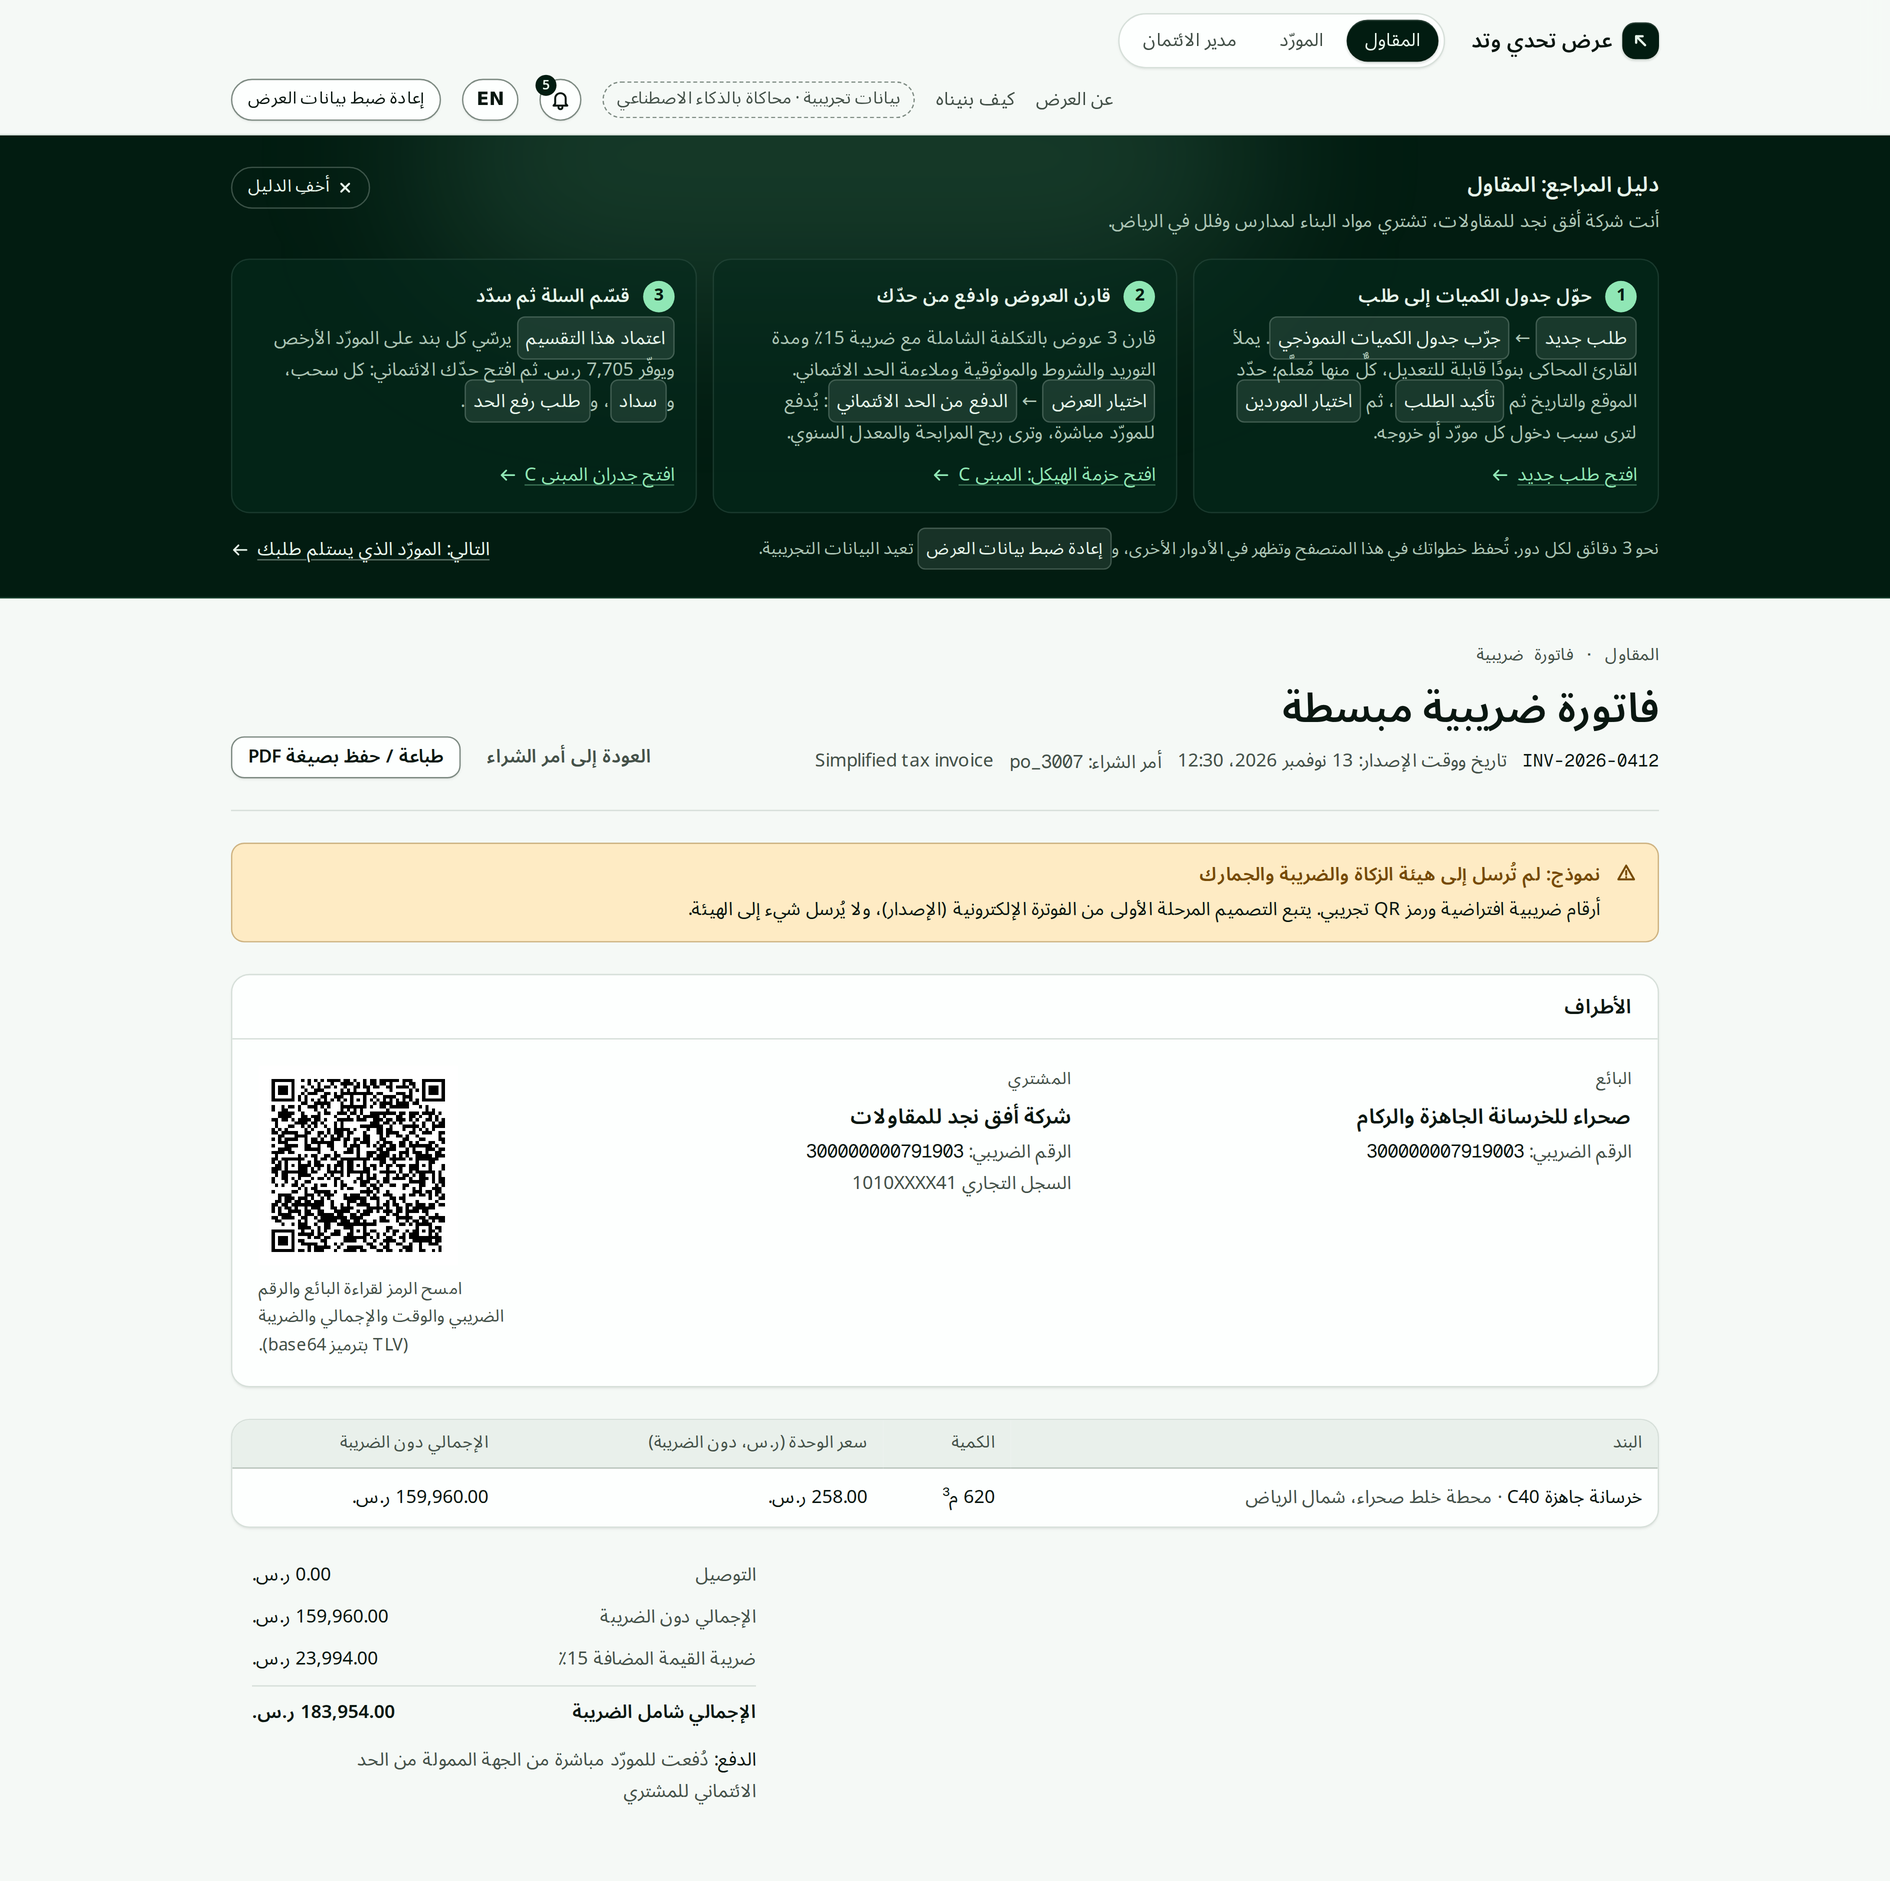
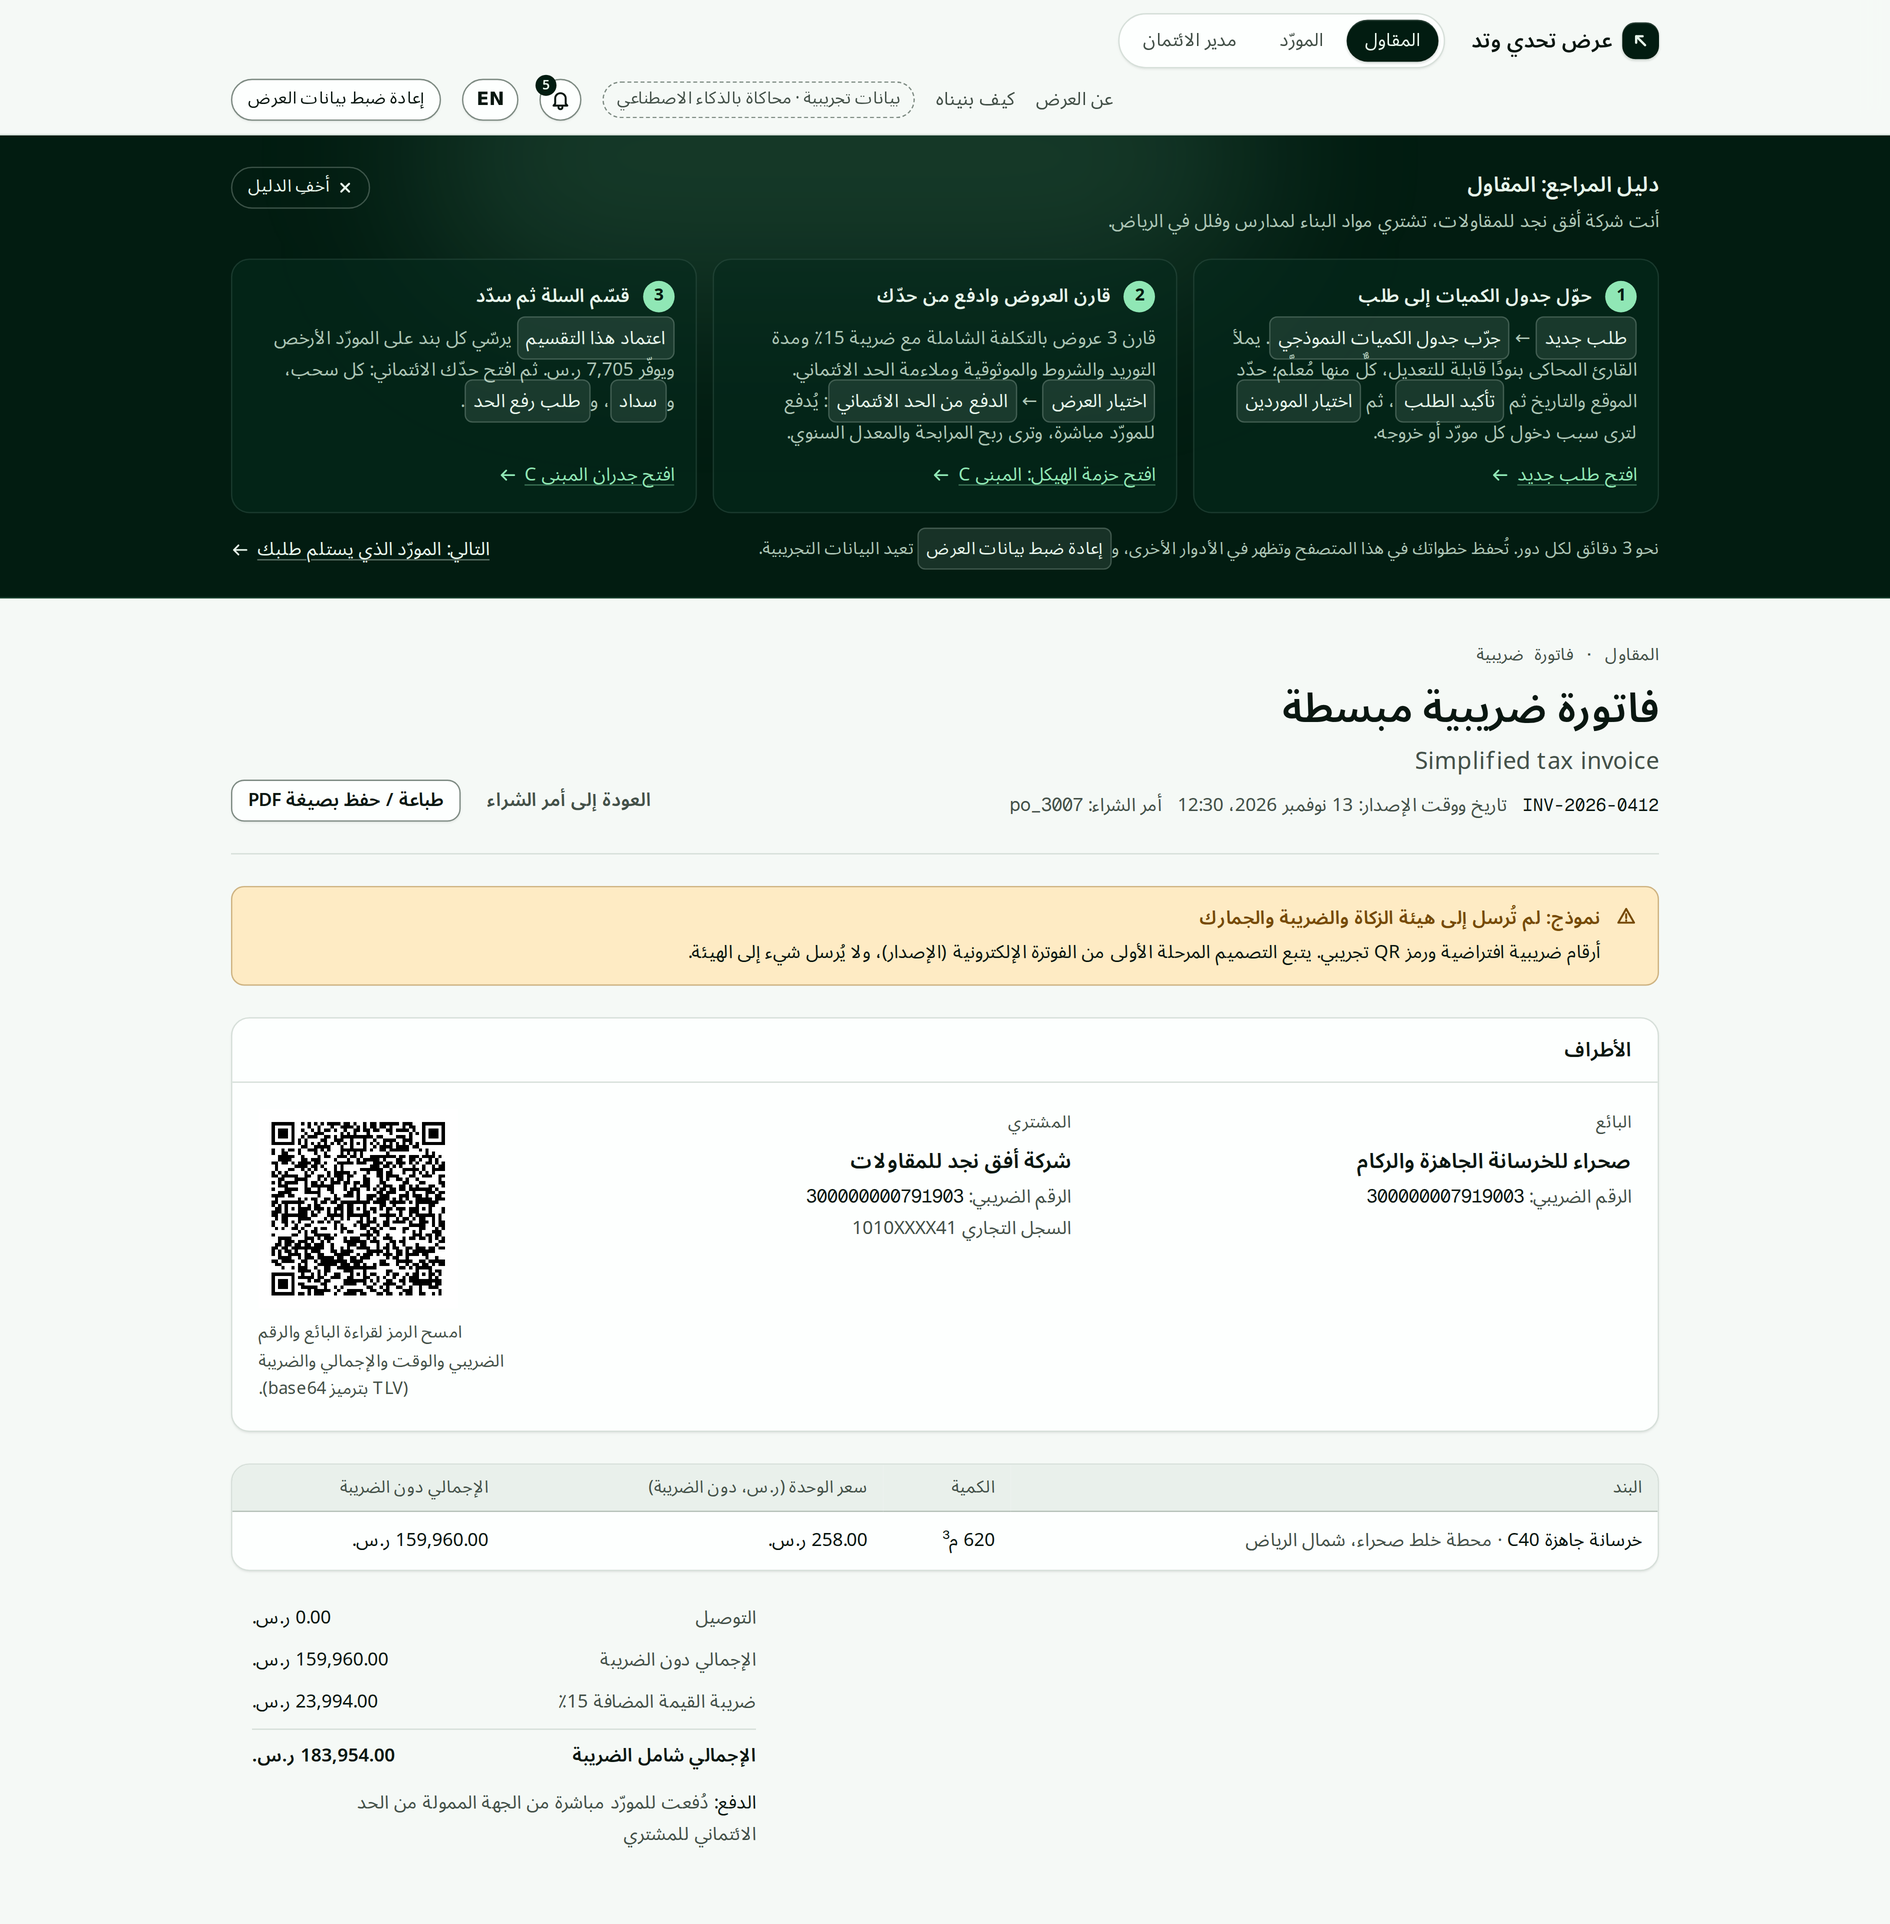
feat(invoice): bilingual title, the other language as a subtitle under the heading
Saudi tax invoices are bilingual («فاتورة ضريبية مبسطة» / "Simplified tax
invoice"). PageHeader gets an optional `subtitle` directly under the h1;
the tax invoice uses it for the other language's title (lang and dir
set), instead of the end of the meta row (Layla's nit on #146). e2e
checks the subtitle in both languages. Screenshots refreshed.

diff --git a/src/components/ui/panel.tsx b/src/components/ui/panel.tsx
@@ -20,7 +20,8 @@ export function Panel({ title, aside, children, className, flush = false }: { ti
  * Top of every working screen, laid out like the head of an attested document:
  * title, serial number, status, then the one primary action at the end.
  */
-export function PageHeader({ title, serial, status, meta, actions, eyebrow }: { title: string; serial?: string; status?: ReactNode; meta?: ReactNode; actions?: ReactNode; eyebrow?: string }) {
+/** `subtitle` sits directly under the title, e.g. the Arabic title of a bilingual document. */
+export function PageHeader({ title, subtitle, serial, status, meta, actions, eyebrow }: { title: string; subtitle?: ReactNode; serial?: string; status?: ReactNode; meta?: ReactNode; actions?: ReactNode; eyebrow?: string }) {
   return (
     <header className="flex flex-wrap items-end justify-between gap-x-6 gap-y-4 border-b border-line pb-6">
       <div className="min-w-0">
@@ -29,6 +30,7 @@ export function PageHeader({ title, serial, status, meta, actions, eyebrow }: { 
           <h1 className="text-3xl font-semibold tracking-[var(--tracking-heading)] text-ink">{title}</h1>
           {status}
         </div>
+        {subtitle ? <p className="mt-1 text-lg font-medium text-ink-muted">{subtitle}</p> : null}
         {serial || meta ? (
           <p className="mt-1.5 flex flex-wrap items-center gap-x-3 gap-y-1 text-sm text-ink-muted">
             {serial ? <span className="font-mono text-xs text-ink">{serial}</span> : null}

diff --git a/e2e/invoice.spec.ts b/e2e/invoice.spec.ts
@@ -24,6 +24,9 @@ test("an invoiced PO links to its tax invoice: sample label, QR with the ZATCA f
   const inv = tid(page, "tax-invoice");
   await expect(inv).toContainText("Simplified tax invoice");
   await expect(inv).toContainText("INV-2026-0412");
+  // Bilingual, as Saudi tax invoices are: the Arabic title sits right under the English heading.
+  await expect(tid(page, "invoice-title-alt")).toHaveText("فاتورة ضريبية مبسطة");
+  await expect(tid(page, "invoice-title-alt")).toHaveAttribute("lang", "ar");
   await expect(tid(page, "invoice-sample")).toContainText("Sample: not submitted to ZATCA");
 
   const qr = tid(page, "invoice-qr");
@@ -95,6 +98,7 @@ test("PO and tax invoice have no serious or critical accessibility issues, Engli
       if (path.endsWith("invoice")) {
         await expect(tid(page, "invoice-qr").locator("path")).toHaveCount(1);
         if (locale === "ar") await expect(tid(page, "tax-invoice")).toContainText("فاتورة ضريبية مبسطة");
+        if (locale === "ar") await expect(tid(page, "invoice-title-alt")).toHaveText("Simplified tax invoice");
       }
       const results = await new AxeBuilder({ page }).include("main").analyze();
       const serious = results.violations.filter((v) => v.impact === "serious" || v.impact === "critical");

diff --git a/src/components/invoice/tax-invoice.tsx b/src/components/invoice/tax-invoice.tsx
@@ -102,6 +102,12 @@ export function TaxInvoice({ poId, viewer }: { poId: string; viewer: "contractor
       <PageHeader
         eyebrow={eyebrow}
         title={m.title}
+        // Saudi tax invoices are bilingual: the other language's title sits under the heading.
+        subtitle={
+          <span lang={i.ar ? "en" : "ar"} dir={i.ar ? "ltr" : "rtl"} data-testid="invoice-title-alt">
+            {i.ar ? invoice.en.title : invoice.ar.title}
+          </span>
+        }
         serial={number}
         meta={
           <>
@@ -110,10 +116,6 @@ export function TaxInvoice({ poId, viewer }: { poId: string; viewer: "contractor
             </span>
             <span>
               {m.poRef}: <bdi className="font-mono">{po.id}</bdi>
-            </span>
-            {/* ZATCA invoices carry Arabic: in English the Arabic title rides along, and the reverse. */}
-            <span lang={i.ar ? "en" : "ar"} dir={i.ar ? "ltr" : "rtl"} data-testid="invoice-title-alt">
-              {i.ar ? invoice.en.title : invoice.ar.title}
             </span>
           </>
         }
